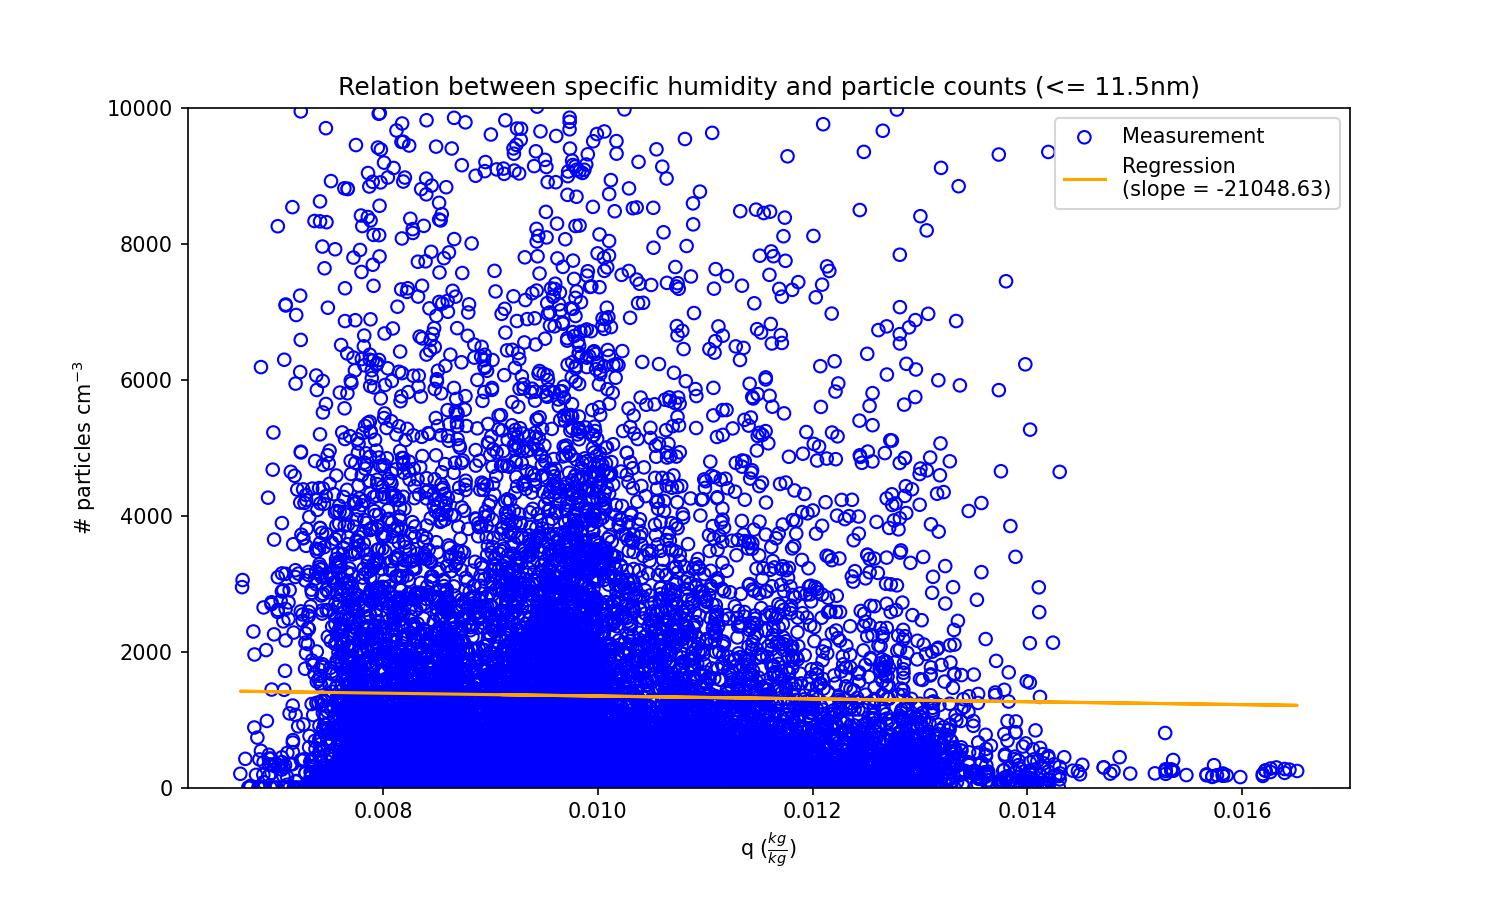
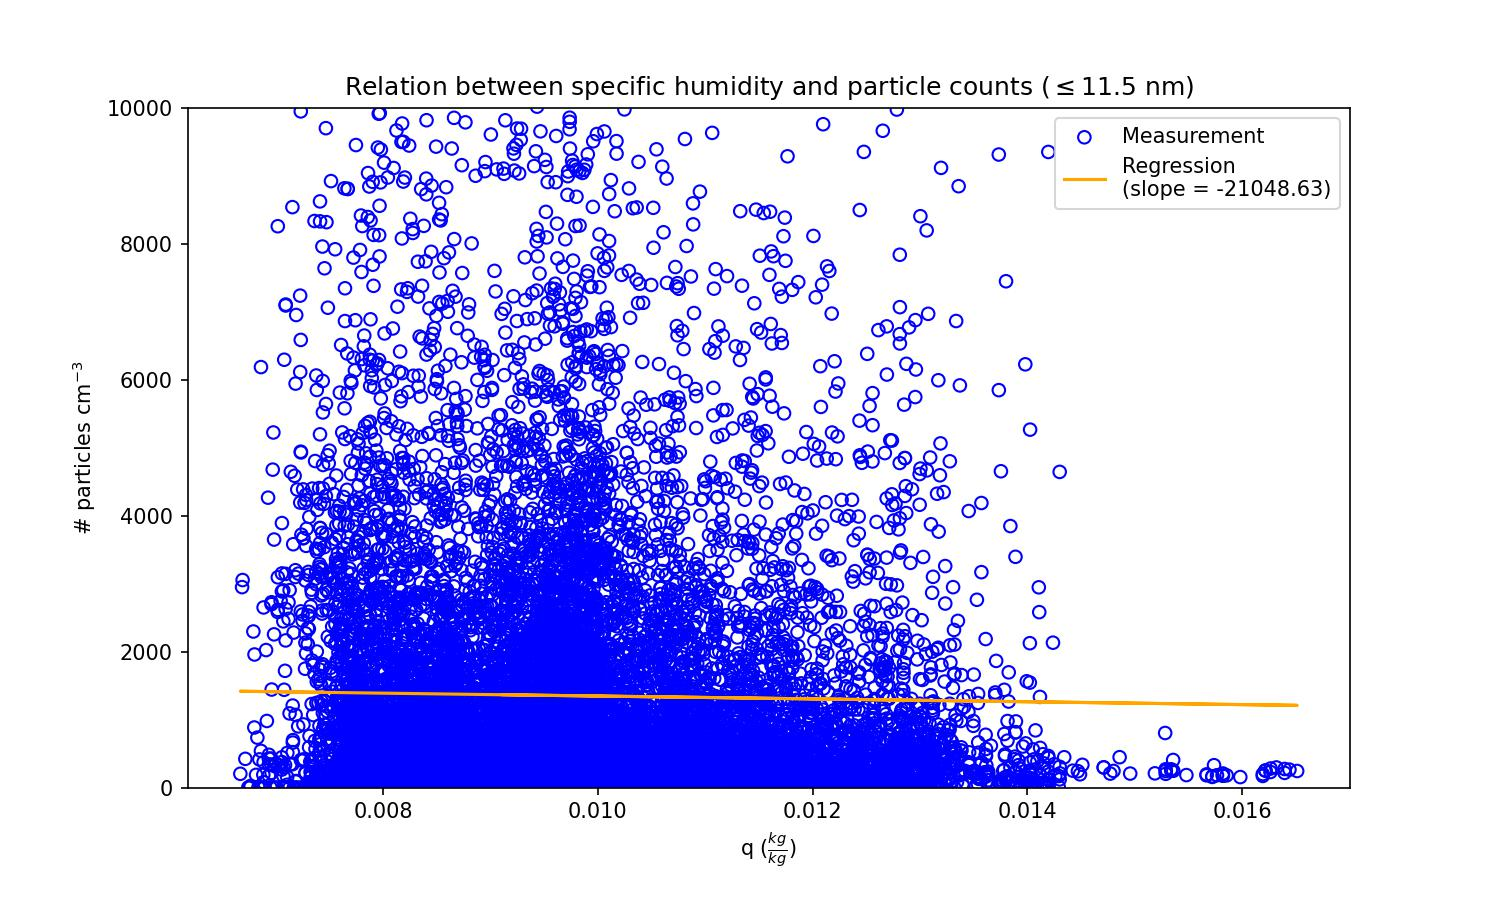
Extra function in reproduction

Changed region(s): [[0.2147, 0.0622, 0.7973, 0.1244]]

diff --git a/src/Reproduce_thesis.py b/src/Reproduce_thesis.py
@@ -11,17 +11,17 @@ every function either. Just run the file, it'll take an age and reproduce everyt
 @author: rens_
 """
 import os
+from itertools import product
 
 import cmocean as co
 import matplotlib.patches as mpatches
 import matplotlib.pyplot as plt
-from itertools import product
 import numpy as np
 import pandas as pd
 import seaborn as sb
 
-import HAM_plot as hp
 import HAM_box as ham
+import HAM_plot as hp
 import measurement_data as md
 import utils
 
@@ -562,7 +562,7 @@ def pressure_vs_particle_count():
              color = "orange", label = f"Regression \n(slope = {coeffs[0]:.2f})")
     plt.ylim(0, 1e4)
 
-    plt.title("Relation between ambient pressure and particle counts (<= 11.5nm)")
+    plt.title("Relation between ambient pressure and particle counts ($\leq 11.5$ nm)")
     plt.xlabel("q ($\\frac{kg}{kg}$)")
     plt.ylabel("# particles cm$^{-3}$")
     plt.legend()
@@ -597,7 +597,7 @@ def spechum_vs_particle_count():
     plt.plot(merged_641_df[(merged_641_df["winddir_deg"] >= 202.5) &(merged_641_df["winddir_deg"] <= 337.5)]["Spec Hum"], merged_641_df[(merged_641_df["winddir_deg"] >= 202.5) &(merged_641_df["winddir_deg"] <= 337.5)]["Spec Hum"]*coeffs[0] + coeffs[1], color = "orange", label = f"Regression \n(slope = {coeffs[0]:.2f})")
     plt.ylim(0, 1e4)
 
-    plt.title("Relation between specific humidity and particle counts (<= 11.5nm)")
+    plt.title("Relation between specific humidity and particle counts ($\leq 11.5$ nm)")
     plt.xlabel("q ($\\frac{kg}{kg}$)")
     plt.ylabel("# particles cm$^{-3}$")
     plt.legend()

diff --git a/src/HAM_box.py b/src/HAM_box.py
@@ -9,17 +9,17 @@
 
 import json
 import os
-from matplotlib import pyplot as plt
 # from matplotlib import colors as mc
 # from scipy.interpolate import griddata
 import re
-from itertools import product
 import shutil
 import subprocess
+from itertools import product
 
 import netCDF4 as nc
 import numpy as np
 import pandas as pd
+from matplotlib import pyplot as plt
 from tqdm import tqdm
 
 import HAM_plot as hp

diff --git a/src/HAM_plot.py b/src/HAM_plot.py
@@ -17,7 +17,7 @@ import pandas as pd
 from matplotlib import colors as mc
 from scipy.interpolate import griddata
 
-from utils import order_of_magnitude, lognormal, parse_metadata
+from utils import lognormal, order_of_magnitude, parse_metadata
 
 HAM_BASE_FOLDER = "../../HAM_box_OpenIFS"
 HAM_INPUT_FOLDER = os.path.join(HAM_BASE_FOLDER, "input")

diff --git a/src/utils.py b/src/utils.py
@@ -5,11 +5,10 @@ Created on Fri Mar 22 10:20:12 2024
 @author: rens_
 """
 from colorsys import hsv_to_rgb, rgb_to_hsv
-from sklearn.metrics import mean_squared_error, r2_score
-from tqdm import tqdm
 from json import loads
 
 import numpy as np
+from sklearn.metrics import mean_squared_error, r2_score
 
 
 def order_of_magnitude(number):

diff --git a/src/measurement_data.py b/src/measurement_data.py
@@ -12,8 +12,6 @@ import matplotlib.pyplot as plt
 import numpy as np
 import pandas as pd
 import seaborn as sb
-from matplotlib.animation import FuncAnimation
-from scipy.integrate import trapz
 from windrose import WindroseAxes
 
 import utils
